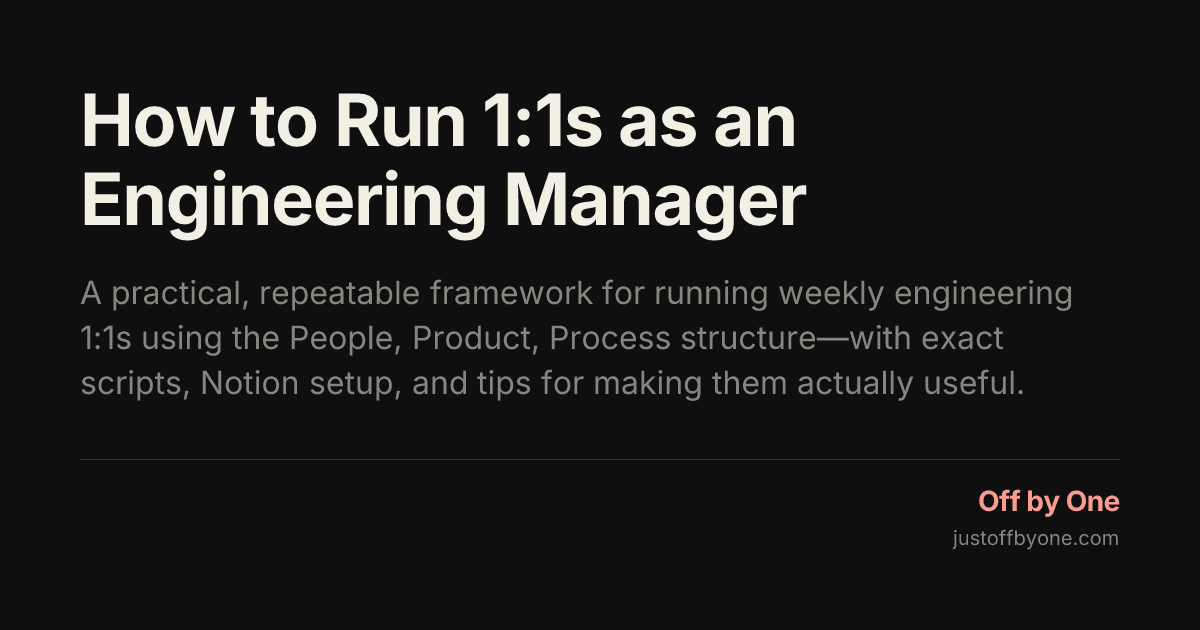
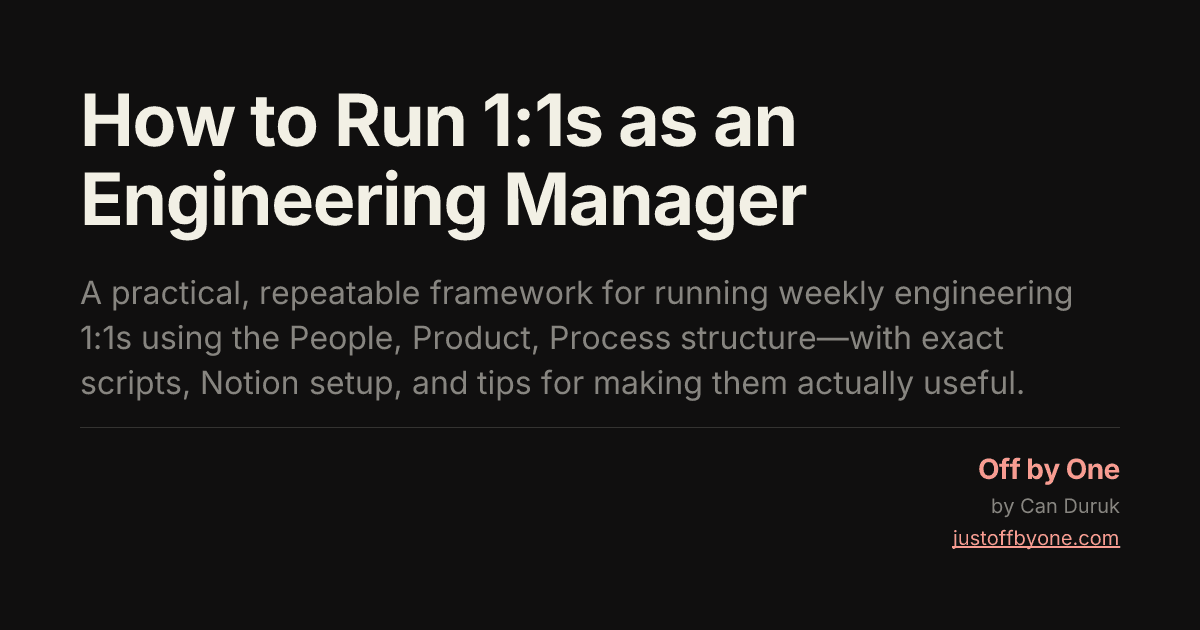
More branding

Changed region(s): [[0.8017, 0.7238, 0.9558, 0.8143], [0.8017, 0.8444, 0.925, 0.8746]]

diff --git a/src/components/ui/hero-template.tsx b/src/components/ui/hero-template.tsx
@@ -126,6 +126,15 @@ export function HeroTemplate({ title, description }: HeroTemplateProps) {
                 color: colors.mutedForeground,
               }}
             >
+              by Can Duruk
+            </div>
+            <div
+              style={{
+                fontSize: '20px',
+                color: colors.primary,
+                textDecoration: 'underline',
+              }}
+            >
               justoffbyone.com
             </div>
           </div>
